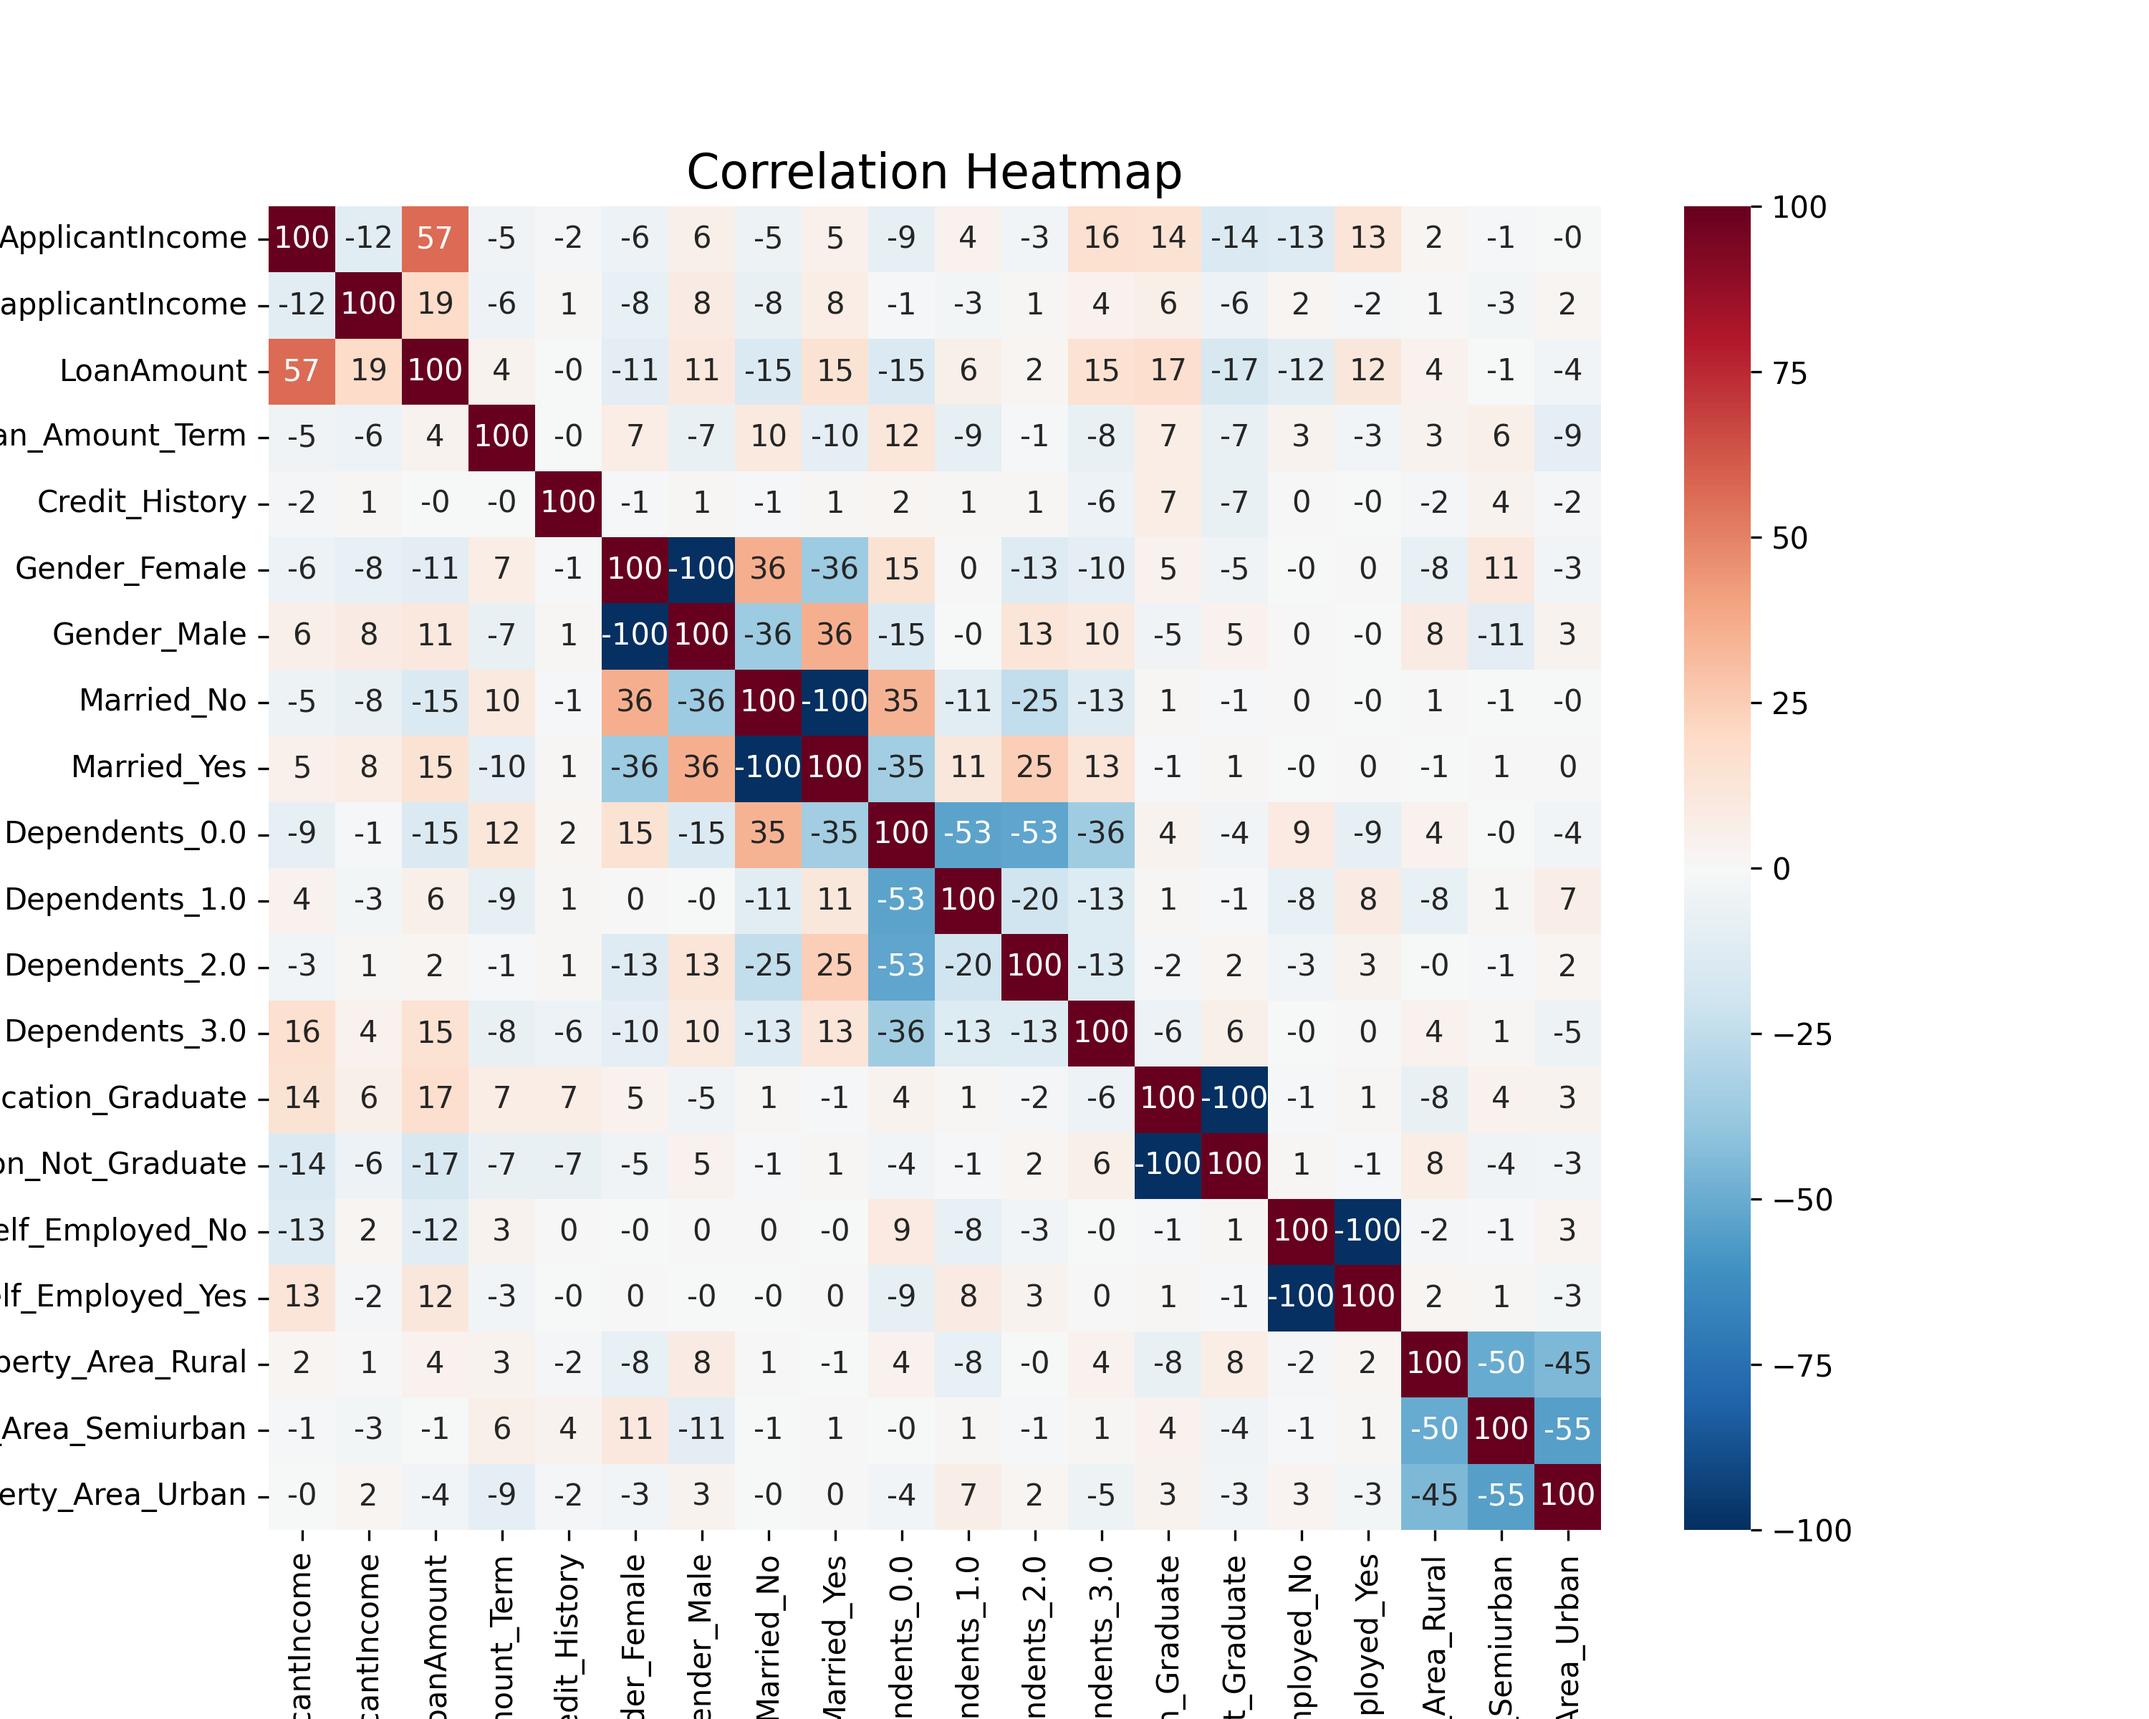
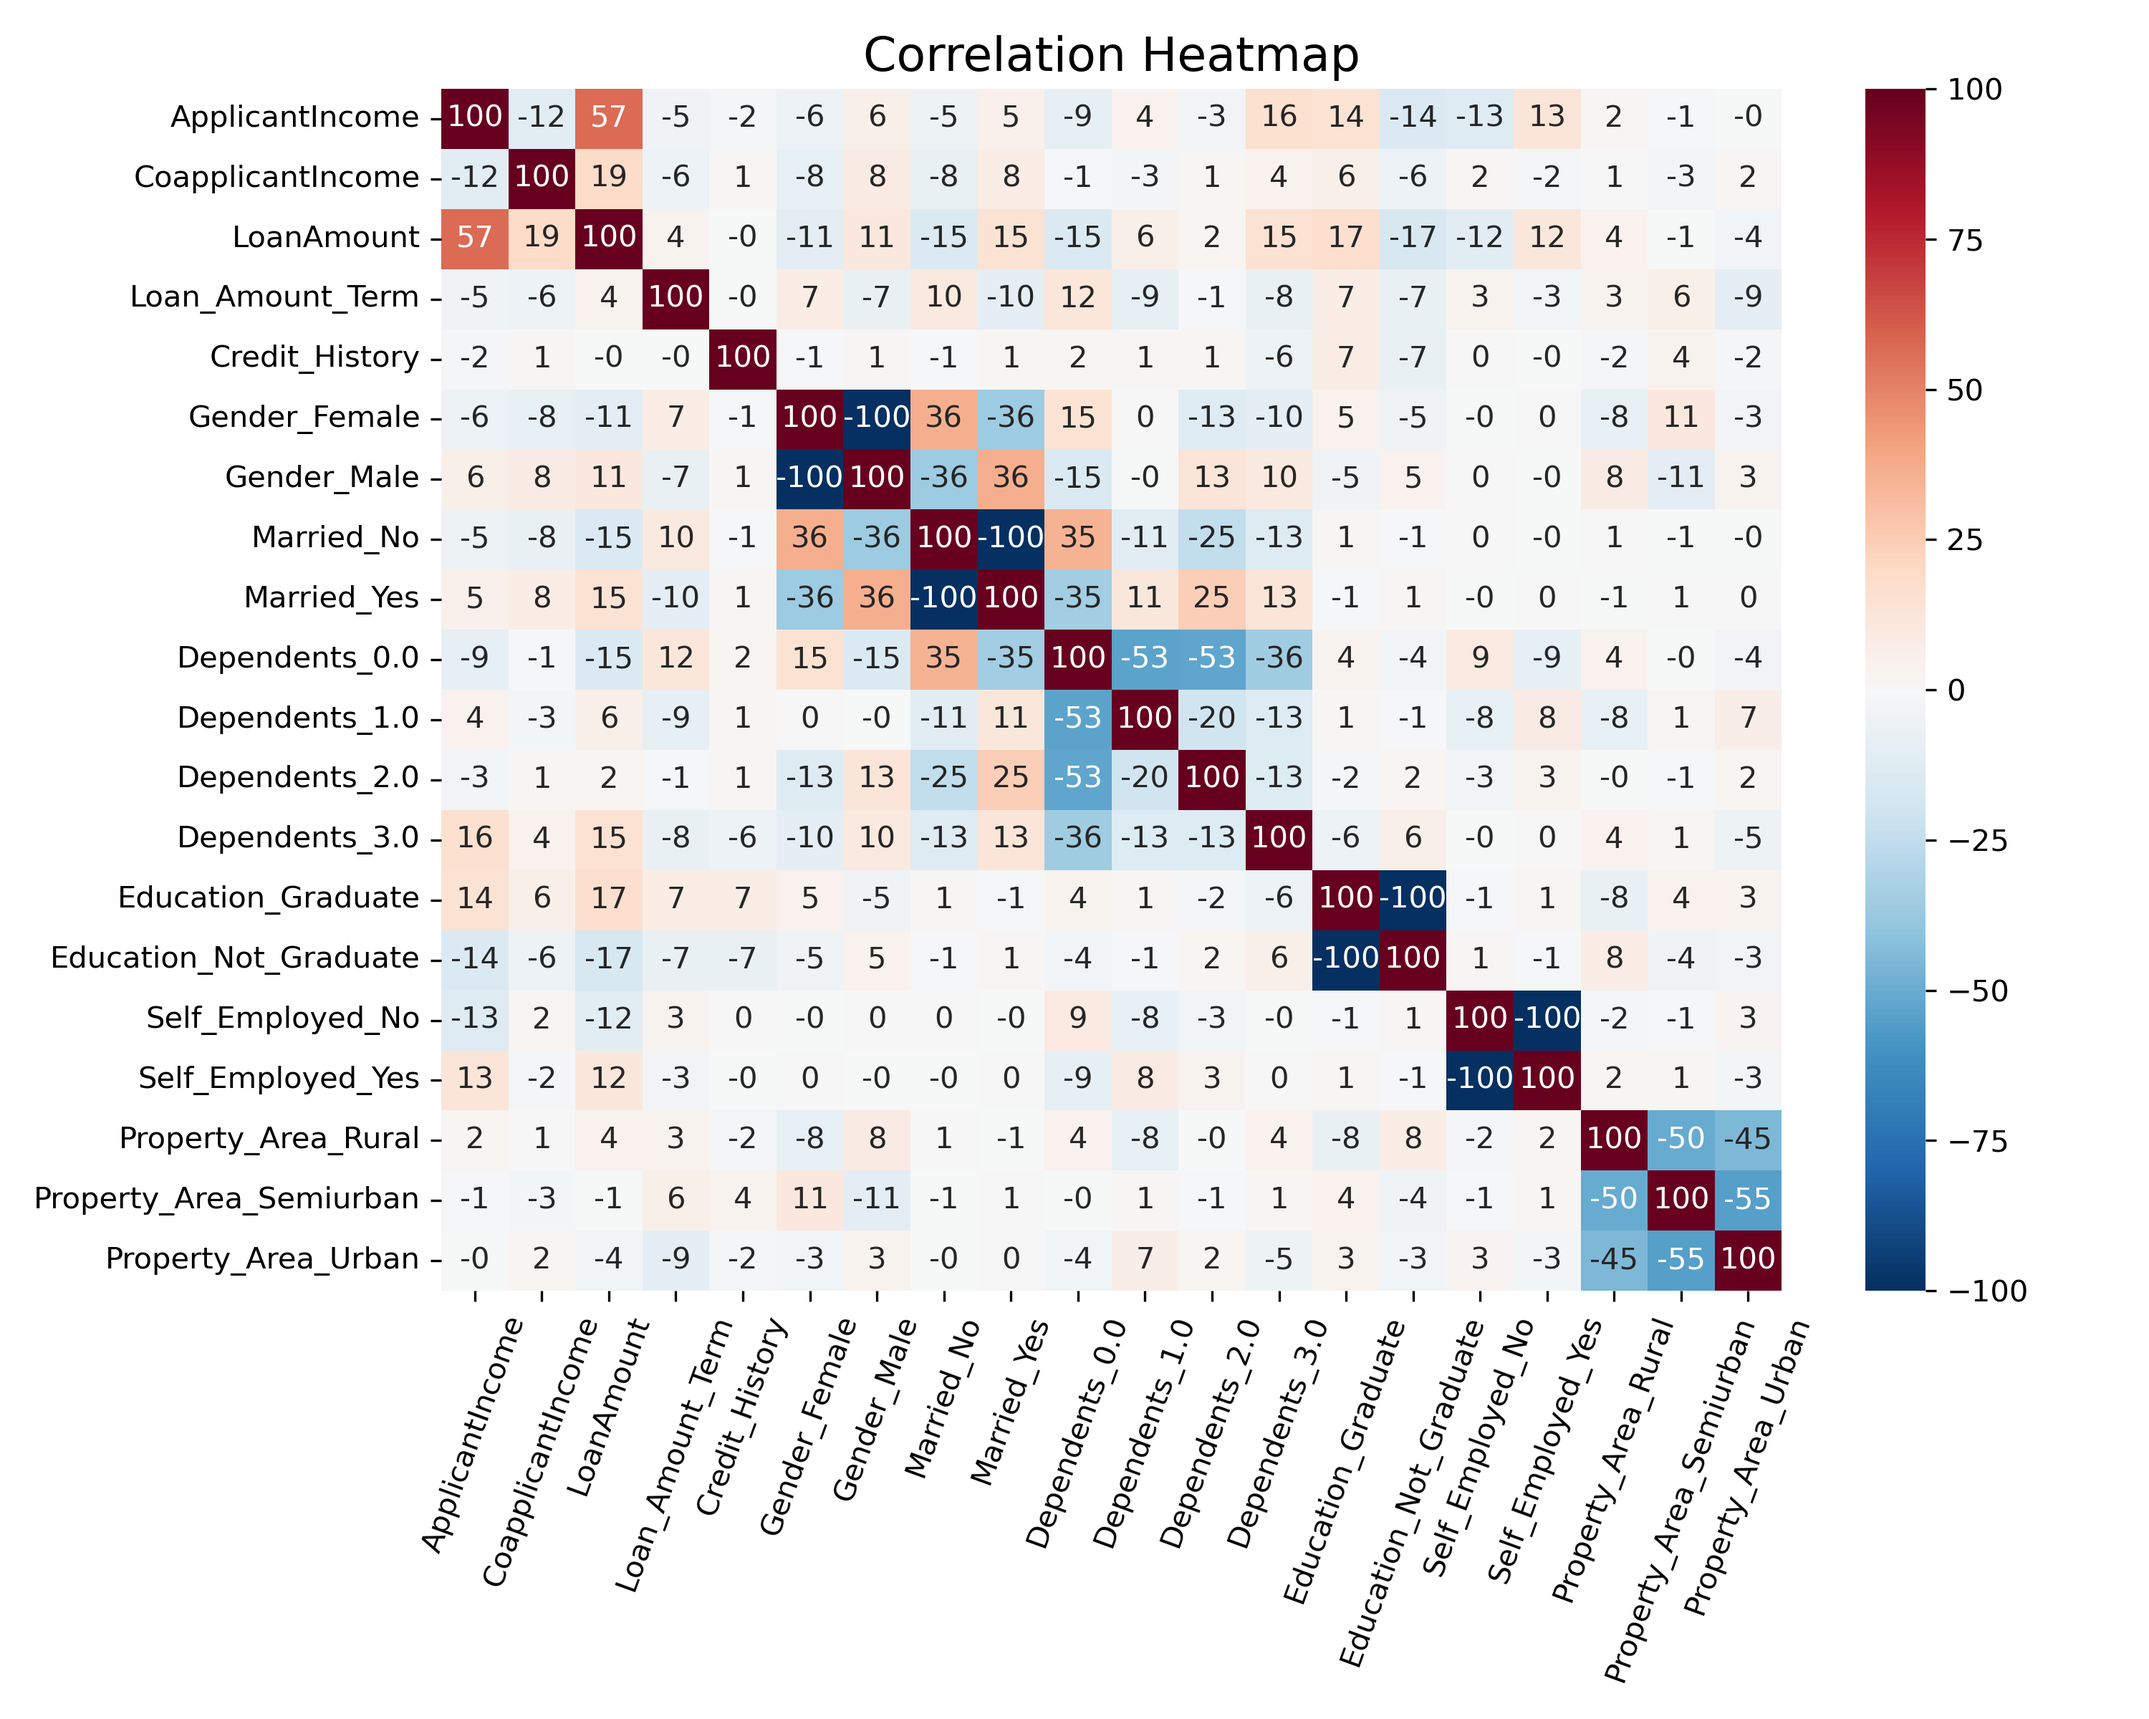
update images

diff --git a/src/visualization/visualize.py b/src/visualization/visualize.py
@@ -14,7 +14,9 @@ def plot_correlation_heatmap(data):
     """
     plt.figure(figsize=(10, 8))
     sns.heatmap(data.corr()*100, annot=True, fmt='.0f', cmap='RdBu_r')
+    plt.xticks(rotation=70)
     plt.title('Correlation Heatmap', fontsize=16)
+    plt.tight_layout()
     # Save the plot to a file
     plt.savefig('heatmap.png', dpi=300)
     # Show the plot
@@ -35,7 +37,7 @@ def plot_confusion_matrix(cm, classes, normalize=False, title='Confusion Matrix'
     if normalize:
         cm = cm.astype('float') / cm.sum(axis=1)[:, np.newaxis]
 
-    plt.figure(figsize=(8, 6))
+    plt.figure(figsize=(6, 4))
     sns.heatmap(cm, annot=True, cmap='Blues', xticklabels=classes, yticklabels=classes)
     plt.xlabel('Predicted', fontsize=12)
     plt.ylabel('Actual', fontsize=12)
@@ -51,12 +53,13 @@ def plot_coefficients(model, x):
     # Get the values of the coefficients
     coefficients = model.coef_[0]
     # Plot the feature importances
-    plt.figure(figsize=(10, 6))
+    plt.figure(figsize=(10, 8))
     plt.title("Logistic Regression Coefficients")
     plt.bar(range(x.shape[1]), coefficients, align="center")
-    plt.xticks(range(x.shape[1]), x.columns, rotation=90)
+    plt.xticks(range(x.shape[1]), x.columns, rotation=70)
     plt.xlabel("Features")
     plt.ylabel("Coefficient Value")
+    plt.tight_layout()
     # Save the plot to a file
     plt.savefig('Coefficients.png', dpi=300)
     # show the plot

diff --git a/streamlit.py b/streamlit.py
@@ -187,6 +187,7 @@ if submitted:
 
 # display Coefficient image and values
 st.subheader("Feature Coefficient")
+st.write("A Logistic Regression model is used to predict the load eligibility. The coefficients shown below.")
 st.image("Coefficients.png")
 
 
